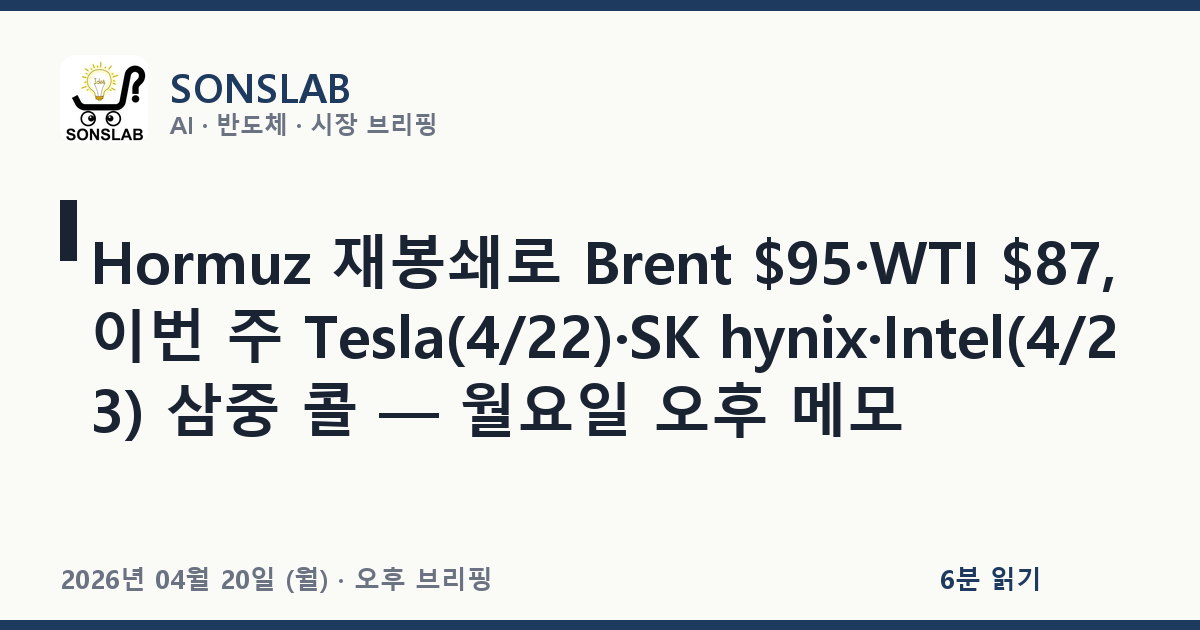
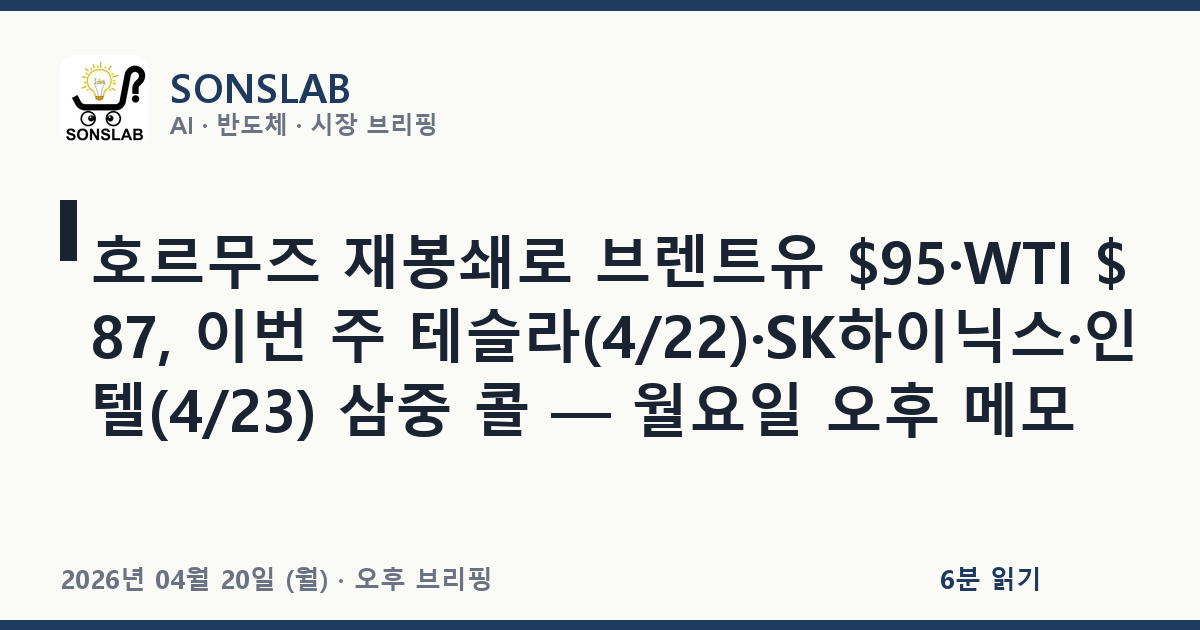
Update: 2026-04-20 18:42

Changed region(s): [[0.0617, 0.3619, 0.9558, 0.6937], [0.8017, 0.6032, 0.8942, 0.6937]]

diff --git a/posts/2026-04-20-pm17-ai-tech-news.html b/posts/2026-04-20-pm17-ai-tech-news.html
@@ -3,7 +3,7 @@
 <head>
     <meta charset="UTF-8">
     <meta name="viewport" content="width=device-width, initial-scale=1.0">
-    <title>Hormuz 재봉쇄로 Brent $95·WTI $87, 이번 주 Tesla(4/22)·SK hynix·Intel(4/23) 삼중 콜 — 월요일 오후 메모 — SONSLAB</title>
+    <title>호르무즈 재봉쇄로 브렌트유 $95·WTI $87, 이번 주 테슬라(4/22)·SK하이닉스·인텔(4/23) 삼중 콜 — 월요일 오후 메모 — SONSLAB</title>
     <link rel="icon" href="../assets/logo.jpg">
     <link rel="alternate" type="application/atom+xml" title="SONSLAB Feed" href="../feed.xml">
     <link rel="preconnect" href="https://fonts.googleapis.com">
@@ -16,13 +16,13 @@
     <link rel="canonical" href="https://shonsubong.github.io/sonslab-blog/posts/2026-04-20-pm17-ai-tech-news.html">
     <meta property="og:site_name" content="SONSLAB">
     <meta property="og:type" content="article">
-    <meta property="og:title" content="Hormuz 재봉쇄로 Brent $95·WTI $87, 이번 주 Tesla(4/22)·SK hynix·Intel(4/23) 삼중 콜 — 월요일 오후 메모">
+    <meta property="og:title" content="호르무즈 재봉쇄로 브렌트유 $95·WTI $87, 이번 주 테슬라(4/22)·SK하이닉스·인텔(4/23) 삼중 콜 — 월요일 오후 메모">
     <meta property="og:description" content="퇴근 준비하면서 화면 한 번 정리한다. 오늘 점심에 쓴 건 SK hynix HBM4 샤핑 조정·Samsung 1c DRAM 수율 서사였고, 새벽에는 Sandisk Nasdaq-100 편입이랑 Tesla 수요일 콜의 Terafab 각도를 짚어뒀다. 오후 들어서 판이 다시 한 번 변수 하나 집어삼켰다 — Hormuz 재봉쇄가 풀릴 듯 다시 조여들면서 유가가 올라왔고, 아시아장 내내 이 변수가 깔...">
     <meta property="og:url" content="https://shonsubong.github.io/sonslab-blog/posts/2026-04-20-pm17-ai-tech-news.html">
     <meta property="og:image" content="https://shonsubong.github.io/sonslab-blog/assets/og/2026-04-20-pm17-ai-tech-news.png">
     <meta property="og:locale" content="ko_KR">
     <meta name="twitter:card" content="summary_large_image">
-    <meta name="twitter:title" content="Hormuz 재봉쇄로 Brent $95·WTI $87, 이번 주 Tesla(4/22)·SK hynix·Intel(4/23) 삼중 콜 — 월요일 오후 메모">
+    <meta name="twitter:title" content="호르무즈 재봉쇄로 브렌트유 $95·WTI $87, 이번 주 테슬라(4/22)·SK하이닉스·인텔(4/23) 삼중 콜 — 월요일 오후 메모">
     <meta name="twitter:description" content="퇴근 준비하면서 화면 한 번 정리한다. 오늘 점심에 쓴 건 SK hynix HBM4 샤핑 조정·Samsung 1c DRAM 수율 서사였고, 새벽에는 Sandisk Nasdaq-100 편입이랑 Tesla 수요일 콜의 Terafab 각도를 짚어뒀다. 오후 들어서 판이 다시 한 번 변수 하나 집어삼켰다 — Hormuz 재봉쇄가 풀릴 듯 다시 조여들면서 유가가 올라왔고, 아시아장 내내 이 변수가 깔...">
     <meta name="twitter:image" content="https://shonsubong.github.io/sonslab-blog/assets/og/2026-04-20-pm17-ai-tech-news.png">
     <meta property="article:published_time" content="2026-04-20T17:16:00+09:00">
@@ -56,8 +56,8 @@
     } catch (e) {}
 })();
 </script>
-    <script type="application/ld+json">{"@context": "https://schema.org", "@type": "BlogPosting", "headline": "Hormuz 재봉쇄로 Brent $95·WTI $87, 이번 주 Tesla(4/22)·SK hynix·Intel(4/23) 삼중 콜 — 월요일 오후 메모", "description": "퇴근 준비하면서 화면 한 번 정리한다. 오늘 점심에 쓴 건 SK hynix HBM4 샤핑 조정·Samsung 1c DRAM 수율 서사였고, 새벽에는 Sandisk Nasdaq-100 편입이랑 Tesla 수요일 콜의 Terafab 각도를 짚어뒀다. 오후 들어서 판이 다시 한 번 변수 하나 집어삼켰다 — Hormuz 재봉쇄가 풀릴 듯 다시 조여들면서 유가가 올라왔고, 아시아장 내내 이 변수가 깔...", "url": "https://shonsubong.github.io/sonslab-blog/posts/2026-04-20-pm17-ai-tech-news.html", "mainEntityOfPage": "https://shonsubong.github.io/sonslab-blog/posts/2026-04-20-pm17-ai-tech-news.html", "inLanguage": "ko", "image": "https://shonsubong.github.io/sonslab-blog/assets/og/2026-04-20-pm17-ai-tech-news.png", "author": {"@type": "Person", "name": "SONSLAB"}, "publisher": {"@type": "Organization", "name": "SONSLAB", "logo": {"@type": "ImageObject", "url": "https://shonsubong.github.io/sonslab-blog/assets/logo.jpg"}}, "datePublished": "2026-04-20T17:16:00+09:00", "dateModified": "2026-04-20T17:16:00+09:00"}</script>
-    <script type="application/ld+json">{"@context": "https://schema.org", "@type": "BreadcrumbList", "itemListElement": [{"@type": "ListItem", "position": 1, "name": "SONSLAB", "item": "https://shonsubong.github.io/sonslab-blog/"}, {"@type": "ListItem", "position": 2, "name": "글", "item": "https://shonsubong.github.io/sonslab-blog/#posts"}, {"@type": "ListItem", "position": 3, "name": "Hormuz 재봉쇄로 Brent $95·WTI $87, 이번 주 Tesla(4/22)·SK hynix·Intel(4/23) 삼중 콜 — 월요일 오후 메모", "item": "https://shonsubong.github.io/sonslab-blog/posts/2026-04-20-pm17-ai-tech-news.html"}]}</script>
+    <script type="application/ld+json">{"@context": "https://schema.org", "@type": "BlogPosting", "headline": "호르무즈 재봉쇄로 브렌트유 $95·WTI $87, 이번 주 테슬라(4/22)·SK하이닉스·인텔(4/23) 삼중 콜 — 월요일 오후 메모", "description": "퇴근 준비하면서 화면 한 번 정리한다. 오늘 점심에 쓴 건 SK hynix HBM4 샤핑 조정·Samsung 1c DRAM 수율 서사였고, 새벽에는 Sandisk Nasdaq-100 편입이랑 Tesla 수요일 콜의 Terafab 각도를 짚어뒀다. 오후 들어서 판이 다시 한 번 변수 하나 집어삼켰다 — Hormuz 재봉쇄가 풀릴 듯 다시 조여들면서 유가가 올라왔고, 아시아장 내내 이 변수가 깔...", "url": "https://shonsubong.github.io/sonslab-blog/posts/2026-04-20-pm17-ai-tech-news.html", "mainEntityOfPage": "https://shonsubong.github.io/sonslab-blog/posts/2026-04-20-pm17-ai-tech-news.html", "inLanguage": "ko", "image": "https://shonsubong.github.io/sonslab-blog/assets/og/2026-04-20-pm17-ai-tech-news.png", "author": {"@type": "Person", "name": "SONSLAB"}, "publisher": {"@type": "Organization", "name": "SONSLAB", "logo": {"@type": "ImageObject", "url": "https://shonsubong.github.io/sonslab-blog/assets/logo.jpg"}}, "datePublished": "2026-04-20T17:16:00+09:00", "dateModified": "2026-04-20T17:16:00+09:00"}</script>
+    <script type="application/ld+json">{"@context": "https://schema.org", "@type": "BreadcrumbList", "itemListElement": [{"@type": "ListItem", "position": 1, "name": "SONSLAB", "item": "https://shonsubong.github.io/sonslab-blog/"}, {"@type": "ListItem", "position": 2, "name": "글", "item": "https://shonsubong.github.io/sonslab-blog/#posts"}, {"@type": "ListItem", "position": 3, "name": "호르무즈 재봉쇄로 브렌트유 $95·WTI $87, 이번 주 테슬라(4/22)·SK하이닉스·인텔(4/23) 삼중 콜 — 월요일 오후 메모", "item": "https://shonsubong.github.io/sonslab-blog/posts/2026-04-20-pm17-ai-tech-news.html"}]}</script>
 </head>
 <body class="post-page">
     <div class="reading-progress" id="reading-progress" role="progressbar" aria-label="읽기 진행률"></div>
@@ -101,7 +101,7 @@
 <article class="post-article">
     <div class="post-header">
         <a href="../index.html" class="back-link">← 전체 글 목록</a>
-        <h1>Hormuz 재봉쇄로 Brent $95·WTI $87, 이번 주 Tesla(4/22)·SK hynix·Intel(4/23) 삼중 콜 — 월요일 오후 메모</h1>
+        <h1>호르무즈 재봉쇄로 브렌트유 $95·WTI $87, 이번 주 테슬라(4/22)·SK하이닉스·인텔(4/23) 삼중 콜 — 월요일 오후 메모</h1>
         <div class="post-meta">
             <span class="time-label">오후 브리핑</span>
             <span>2026년 04월 20일 (월) · 17:16</span>
@@ -117,7 +117,7 @@
     <details class="post-toc" open><summary>목차</summary><div class="toc">
 <div class="toc">
 <ul>
-<li><a href="#hormuz-brent-95wti-87-tesla422sk-hynixintel423">Hormuz 재봉쇄로 Brent $95·WTI $87, 이번 주 Tesla(4/22)·SK hynix·Intel(4/23) 삼중 콜 — 월요일 오후 메모</a><ul>
+<li><a href="#95wti-87-422sk423">호르무즈 재봉쇄로 브렌트유 $95·WTI $87, 이번 주 테슬라(4/22)·SK하이닉스·인텔(4/23) 삼중 콜 — 월요일 오후 메모</a><ul>
 <li><a href="#brent-95">Brent $95 재진입 — 메모리 사이클 위에 원유 사이클이 한 겹 더</a></li>
 <li><a href="#tesla-sk-hynix-intel">이번 주는 삼중 실적 주간 — Tesla(수) / SK hynix(목) / Intel(목)</a></li>
 <li><a href="#_1">마무리</a></li>
@@ -129,7 +129,7 @@
 </div>
 </details>
     <div class="post-content">
-<h1 id="hormuz-brent-95wti-87-tesla422sk-hynixintel423">Hormuz 재봉쇄로 Brent $95·WTI $87, 이번 주 Tesla(4/22)·SK hynix·Intel(4/23) 삼중 콜 — 월요일 오후 메모</h1>
+<h1 id="95wti-87-422sk423">호르무즈 재봉쇄로 브렌트유 $95·WTI $87, 이번 주 테슬라(4/22)·SK하이닉스·인텔(4/23) 삼중 콜 — 월요일 오후 메모</h1>
 <p>퇴근 준비하면서 화면 한 번 정리한다. 오늘 점심에 쓴 건 SK hynix HBM4 샤핑 조정·Samsung 1c DRAM 수율 서사였고, 새벽에는 Sandisk Nasdaq-100 편입이랑 Tesla 수요일 콜의 Terafab 각도를 짚어뒀다. 오후 들어서 판이 다시 한 번 변수 하나 집어삼켰다 — <strong>Hormuz 재봉쇄</strong>가 풀릴 듯 다시 조여들면서 유가가 올라왔고, 아시아장 내내 이 변수가 깔려 있었다.</p>
 <h2 id="brent-95">Brent $95 재진입 — 메모리 사이클 위에 원유 사이클이 한 겹 더</h2>
 <p><a href="https://www.cnn.com/2026/04/19/business/oil-prices-iran-war">CNN Business 4/19 정리</a>랑 <a href="https://www.wsls.com/business/2026/04/20/oil-prices-and-stocks-climb-as-the-us-iran-standoff-keeps-the-strait-of-hormuz-in-limbo/">WSLS/AP 4/20 전송</a> 기준, WTI $87.20 (+5.6%)·Brent $95.16 (+5.3%) 레벨까지 올라왔다. 지난주 초 이란이 Hormuz 개방을 선언하면서 11% 빠졌던 게 기저에 깔려 있어서 체감 낙폭 반전이 더 크다. <a href="https://www.euronews.com/business/2026/04/20/oil-prices-climb-as-us-iran-stand-off-keeps-strait-of-hormuz-in-limbo">Euronews</a>도 같은 톤. 이란-미국 2주 휴전 만료가 수요일로 걸려 있고, <a href="https://en.sedaily.com/finance/2026/04/20/hormuz-reblockade-rattles-markets-sk-hynix-earnings-in-focus">Seoul Economic Daily</a>는 "Hormuz 재봉쇄가 아시아장을 흔들었다"로 요약했다.</p>
@@ -150,7 +150,7 @@
     
 <div class="post-share">
     <span class="share-label">공유하기</span>
-    <a href="https://twitter.com/intent/tweet?text=Hormuz 재봉쇄로 Brent $95·WTI $87, 이번 주 Tesla(4/22)·SK hynix·Intel(4/23) 삼중 콜 — 월요일 오후 메모&url=https://shonsubong.github.io/sonslab-blog/posts/2026-04-20-pm17-ai-tech-news.html"
+    <a href="https://twitter.com/intent/tweet?text=호르무즈 재봉쇄로 브렌트유 $95·WTI $87, 이번 주 테슬라(4/22)·SK하이닉스·인텔(4/23) 삼중 콜 — 월요일 오후 메모&url=https://shonsubong.github.io/sonslab-blog/posts/2026-04-20-pm17-ai-tech-news.html"
        class="share-btn" target="_blank" rel="noopener" aria-label="X(Twitter)에 공유">
         <span>X</span>
     </a>

diff --git a/index.html b/index.html
@@ -168,7 +168,7 @@
                 <tr class="live">
                     <td class="td-time">17:16</td>
                     <td class="td-kind">오후 브리핑</td>
-                    <td class="td-title"><a href="posts/2026-04-20-pm17-ai-tech-news.html">Hormuz 재봉쇄로 Brent $95·WTI $87, 이번 주 Tesla(4/22)·SK hynix·Intel(4/23) 삼중 콜 — 월요일 오후 메모</a></td>
+                    <td class="td-title"><a href="posts/2026-04-20-pm17-ai-tech-news.html">호르무즈 재봉쇄로 브렌트유 $95·WTI $87, 이번 주 테슬라(4/22)·SK하이닉스·인텔(4/23) 삼중 콜 — 월요일 오후 메모</a></td>
                     <td class="td-read">6분</td>
                 </tr>
                 <tr class="up">
@@ -185,14 +185,14 @@
             
         <article class="hero-lede" data-only="editorial">
             <div class="lede-kind">오후 브리핑 — Morning Brief</div>
-            <h1 class="lede-title"><a href="posts/2026-04-20-pm17-ai-tech-news.html">Hormuz 재봉쇄로 Brent $95·WTI $87, 이번 주 Tesla(4/22)·SK hynix·Intel(4/23) 삼중 콜</a></h1>
+            <h1 class="lede-title"><a href="posts/2026-04-20-pm17-ai-tech-news.html">호르무즈 재봉쇄로 브렌트유 $95·WTI $87, 이번 주 테슬라(4/22)·SK하이닉스·인텔(4/23) 삼중 콜</a></h1>
             <div class="lede-dek">월요일 오후 메모</div>
             <p class="lede-body">퇴근 준비하면서 화면 한 번 정리한다. 오늘 점심에 쓴 건 SK hynix HBM4 샤핑 조정·Samsung 1c DRAM 수율 서사였고, 새벽에는 Sandisk Nasdaq-100 편입이랑 Tesla 수요일 콜의 Terafab 각도를 짚어뒀다. 오후 들어서 판이 다시 한 번 변수 하나 집어삼켰다 — Hormuz 재봉쇄가 풀릴 듯 다시 조여들면서 유가가 올라왔고, 아시아장 내내 이 변수가 깔...</p>
             <div class="lede-byline">
                 <span class="lede-reporter">By SONSLAB</span>
                 <span class="lede-sep">—</span>
                 <span>6분 읽기</span>
-                <span class="lede-sep">—</span><span class="lede-topics">반도체, 빅테크/시장, AI 모델</span>
+                <span class="lede-sep">—</span><span class="lede-topics">반도체, 빅테크/시장, 투자/매크로</span>
             </div>
             <a href="posts/2026-04-20-pm17-ai-tech-news.html" class="lede-more">Continue reading →</a>
         </article>
@@ -234,7 +234,7 @@
                 <div class="side-hour">17</div>
                 <div class="side-body">
                     <div class="side-kind">오후</div>
-                    <div class="side-title"><a href="posts/2026-04-20-pm17-ai-tech-news.html">Hormuz 재봉쇄로 Brent $95·WTI $87, 이번 주 Tesla(4/22)·SK hynix·Intel(4/23) 삼중 콜 — 월요일 오후 메모</a></div>
+                    <div class="side-title"><a href="posts/2026-04-20-pm17-ai-tech-news.html">호르무즈 재봉쇄로 브렌트유 $95·WTI $87, 이번 주 테슬라(4/22)·SK하이닉스·인텔(4/23) 삼중 콜 — 월요일 오후 메모</a></div>
                 </div>
             </div>
             <div class="side-today-row dim">
@@ -277,7 +277,7 @@
             
             <article class="c-lead">
                 <div class="c-lead-kind">LEAD · 오후 브리핑</div>
-                <h1 class="c-lead-title"><a href="posts/2026-04-20-pm17-ai-tech-news.html">Hormuz 재봉쇄로 Brent $95·WTI $87, 이번 주 Tesla(4/22)·SK hynix·Intel(4/23) 삼중 콜</a></h1>
+                <h1 class="c-lead-title"><a href="posts/2026-04-20-pm17-ai-tech-news.html">호르무즈 재봉쇄로 브렌트유 $95·WTI $87, 이번 주 테슬라(4/22)·SK하이닉스·인텔(4/23) 삼중 콜</a></h1>
                 <div class="c-lead-dek">월요일 오후 메모</div>
                 <p class="c-lead-body"><span class="dropcap">퇴</span>근 준비하면서 화면 한 번 정리한다. 오늘 점심에 쓴 건 SK hynix HBM4 샤핑 조정·Samsung 1c DRAM 수율 서사였고, 새벽에는 Sandisk Nasdaq-100 편입이랑 Tesla 수요일 콜의 Terafab 각도를 짚어뒀다. 오후 들어서 판이 다시 한 번 변수 하나 집어삼켰다 — Hormuz 재봉쇄가 풀릴 듯 다시 조여들면서 유가가 올라왔고, 아시아장 내내 이 변수가 깔...</p>
                 <div class="c-lead-meta">
@@ -316,7 +316,7 @@
                     <div class="sched-kind">오후 브리핑</div>
                 </div>
                 <div class="sched-body">
-                    <div class="sched-title"><a href="posts/2026-04-20-pm17-ai-tech-news.html">Hormuz 재봉쇄로 Brent $95·WTI $87, 이번 주 Tesla(4/22)·SK hynix·Intel(4/23) 삼중 콜 — 월요일 오후 메모</a></div>
+                    <div class="sched-title"><a href="posts/2026-04-20-pm17-ai-tech-news.html">호르무즈 재봉쇄로 브렌트유 $95·WTI $87, 이번 주 테슬라(4/22)·SK하이닉스·인텔(4/23) 삼중 콜 — 월요일 오후 메모</a></div>
                     <div class="sched-status">● 발행됨 · 6분</div>
                 </div>
             </div>
@@ -388,7 +388,7 @@
 
 <div class="filter-bar" role="search" aria-label="포스트 검색 및 필터">
     <div class="filter-bar-inner">
-        <div class="tag-chips" id="topic-chips" role="tablist" aria-label="주제 필터"><button type="button" class="chip active" data-topic="">전체 <span class="chip-count">51</span></button><button type="button" class="chip" data-topic="반도체">반도체 <span class="chip-count">45</span></button><button type="button" class="chip" data-topic="AI 모델">AI 모델 <span class="chip-count">38</span></button><button type="button" class="chip" data-topic="빅테크/시장">빅테크 / 시장 <span class="chip-count">42</span></button><button type="button" class="chip" data-topic="투자/매크로">투자 / 매크로 <span class="chip-count">9</span></button><button type="button" class="chip" data-topic="정책/규제">정책 / 규제 <span class="chip-count">4</span></button><button type="button" class="chip" data-topic="현장/개발">현장 / 개발 <span class="chip-count">12</span></button></div>
+        <div class="tag-chips" id="topic-chips" role="tablist" aria-label="주제 필터"><button type="button" class="chip active" data-topic="">전체 <span class="chip-count">51</span></button><button type="button" class="chip" data-topic="반도체">반도체 <span class="chip-count">45</span></button><button type="button" class="chip" data-topic="AI 모델">AI 모델 <span class="chip-count">37</span></button><button type="button" class="chip" data-topic="빅테크/시장">빅테크 / 시장 <span class="chip-count">42</span></button><button type="button" class="chip" data-topic="투자/매크로">투자 / 매크로 <span class="chip-count">10</span></button><button type="button" class="chip" data-topic="정책/규제">정책 / 규제 <span class="chip-count">4</span></button><button type="button" class="chip" data-topic="현장/개발">현장 / 개발 <span class="chip-count">12</span></button></div>
         <div class="search-box">
             <input type="search" id="search-input" placeholder="검색…" autocomplete="off" aria-label="포스트 검색">
         </div>
@@ -409,14 +409,14 @@
             <div class="date-group-title">2026년 04월 20일 (월)</div>
             <div class="date-group-posts">
 
-        <article class="post-item" data-time="오후 브리핑" data-topics="반도체|빅테크/시장|AI 모델" data-search="hormuz 재봉쇄로 brent $95·wti $87, 이번 주 tesla(4/22)·sk hynix·intel(4/23) 삼중 콜 — 월요일 오후 메모 퇴근 준비하면서 화면 한 번 정리한다. 오늘 점심에 쓴 건 sk hynix hbm4 샤핑 조정·samsung 1c dram 수율 서사였고, 새벽에는 sandisk nasdaq-100 편입이랑 tesla 수요일 콜의 terafab 각도를 짚어뒀다. 오후 들어서 판이 다시 한 번 변수 하나 집어삼켰다 — hormuz 재봉쇄가 풀릴 듯 다시 조여들면서 유가가 올라왔고, 아시아장 내내 이 변수가 깔... 반도체 빅테크/시장 ai 모델">
+        <article class="post-item" data-time="오후 브리핑" data-topics="반도체|빅테크/시장|투자/매크로" data-search="호르무즈 재봉쇄로 브렌트유 $95·wti $87, 이번 주 테슬라(4/22)·sk하이닉스·인텔(4/23) 삼중 콜 — 월요일 오후 메모 퇴근 준비하면서 화면 한 번 정리한다. 오늘 점심에 쓴 건 sk hynix hbm4 샤핑 조정·samsung 1c dram 수율 서사였고, 새벽에는 sandisk nasdaq-100 편입이랑 tesla 수요일 콜의 terafab 각도를 짚어뒀다. 오후 들어서 판이 다시 한 번 변수 하나 집어삼켰다 — hormuz 재봉쇄가 풀릴 듯 다시 조여들면서 유가가 올라왔고, 아시아장 내내 이 변수가 깔... 반도체 빅테크/시장 투자/매크로">
             <div class="post-meta">
                 <span class="time-label">오후 브리핑</span>
                 <span>·</span>
                 <time>17:16</time><span>·</span>
                 <span>6분 읽기</span>
             </div>
-            <h2><a href="posts/2026-04-20-pm17-ai-tech-news.html">Hormuz 재봉쇄로 Brent $95·WTI $87, 이번 주 Tesla(4/22)·SK hynix·Intel(4/23) 삼중 콜 — 월요일 오후 메모</a></h2>
+            <h2><a href="posts/2026-04-20-pm17-ai-tech-news.html">호르무즈 재봉쇄로 브렌트유 $95·WTI $87, 이번 주 테슬라(4/22)·SK하이닉스·인텔(4/23) 삼중 콜 — 월요일 오후 메모</a></h2>
             <p class="lead">퇴근 준비하면서 화면 한 번 정리한다. 오늘 점심에 쓴 건 SK hynix HBM4 샤핑 조정·Samsung 1c DRAM 수율 서사였고, 새벽에는 Sandisk Nasdaq-100 편입이랑 Tesla 수요일 콜의 Terafab 각도를 짚어뒀다. 오후 들어서 판이 다시 한 번 변수 하나 집어삼켰다 — Hormuz 재봉쇄가 풀릴 듯 다시 조여들면서 유가가 올라왔고, 아시아장 내내 이 변수가 깔...</p>
             <a href="posts/2026-04-20-pm17-ai-tech-news.html" class="read-more">계속 읽기 →</a>
         </article>

diff --git a/posts/2026-04-20-pm12-ai-tech-news.html b/posts/2026-04-20-pm12-ai-tech-news.html
@@ -138,8 +138,8 @@
 </ol>
 <p>모든 "~한다더라" 숫자는 아직 공식 IR 발표가 아니고 리포트·업계 소스 기반이니 확정은 아니다. 다만 이번 주 수요일(4/23) SK하이닉스 1분기 실적 콜이 잡혀 있어서 — <a href="https://finance.yahoo.com/quote/000660.KS/">Yahoo Finance 기록</a> 기준 — 적어도 설비투자 톤이랑 HBM 가이던스 문장에서 이 이야기의 실제 각도가 얼마나 드러나는지 짚어볼 수 있다. 엔비디아 쪽은 <a href="https://www.tomshardware.com/tech-industry/hbm4-mass-production-delayed-as-nvidia-pushes-memory-specs-higher">Tom's Hardware 정리</a>에서 이미 "Rubin 연기 주장은 사실이 아니다"라고 공개적으로 반박 중이라, 같은 사실을 놓고 공급망 A/B 사이드 진술이 정반대로 갈리는 진풍경이 벌어지고 있다.</p>
 <p>반도체 쪽에서 일하는 입장에서 이 판은 한 줄로 요약하면 <strong>"HBM base die respin이라는 단어가 2026년 메모리 판을 흔들고 있다"</strong>. base die가 한 번 꼬이면 TSV·로직 다이·스택 본딩·테스트까지 전 공정이 다시 걸리고, 그 과정의 결함이 TEM/SEM 레벨에서 결국 다시 돌아온다. Rubin 쪽 스펙 변경이 "더 높은 대역폭 + 더 큰 스택" 방향이라면 base die의 기계적·열적 마진이 바뀌니까 공급사 입장에선 리스핀이 불가피했을 가능성이 크다. 이게 "SK하이닉스 실수"로 단순화되는 건 현장 감각하고는 좀 결이 다르다는 생각이다.</p>
-<p>중간에 한 겹 더 있는 변수는 <a href="https://winbuzzer.com/2026/04/17/openai-samsung-hbm-pact-signals-new-ai-memory-arms-race-xcxwbn/">OpenAI</a>다. 4/17 자 보도 기준 OpenAI가 삼성과 전용 HBM4 라인을 확보하는 움직임이 나왔고, 이건 작년 10월의 <a href="https://techcrunch.com/2025/10/01/openai-ropes-in-samsung-sk-hynix-to-source-memory-chips-for-stargate/">SK하이닉스 + 삼성 듀얼 소싱</a>의 연장선이다. 삼성 입장에선 "엔비디아 Rubin 리드 복귀 + OpenAI Stargate 전용 라인" 두 축이 동시에 열리는 구간이라, 수율 80% 프로젝트가 걸린 무게가 커졌다. 반대로 SK하이닉스는 대(對) 엔비디아 물량이 단기적으로 빠진다 해도 OpenAI / AMD / Oracle 쪽 수요가 절대량으로는 여전히 꽉 차 있는 구도라, "역전"이라는 표현은 Rubin 공급 리더 포지션에 한정해서 봐야 공정하다.</p>
-<p><strong>투자자 관점에서 한 줄 정리</strong>하면, 지금 KOSPI 안에서 벌어지고 있는 건 "삼성이 HBM4에서 턴어라운드 서사의 실체를 얼마나 만들어내는가"를 시장이 다시 프라이싱하고 있는 국면이다. SK하이닉스 주가가 지난주 금요일 종가 <a href="https://finance.yahoo.com/quote/000660.KS/">1,155,000원</a>에서 4/19 기준 1,128,000원대로 살짝 조정받은 것도, Rubin 비중 축소 이슈가 짧게 반영된 그림으로 본다. 4/23 어닝에서 HBM 믹스 가이던스가 어떻게 나오는지가 단기 결정 포인트.</p>
+<p>중간에 한 겹 더 있는 변수는 <a href="https://winbuzzer.com/2026/04/17/openai-samsung-hbm-pact-signals-new-ai-memory-arms-race-xcxwbn/">OpenAI</a>다. 4/17 자 보도 기준 OpenAI가 삼성과 전용 HBM4 라인을 확보하는 움직임이 나왔고, 이건 작년 10월의 <a href="https://techcrunch.com/2025/10/01/openai-ropes-in-samsung-sk-hynix-to-source-memory-chips-for-stargate/">SK하이닉스 + 삼성 이중 조달</a>의 연장선이다. 삼성 입장에선 "엔비디아 Rubin 리드 복귀 + OpenAI Stargate 전용 라인" 두 축이 동시에 열리는 구간이라, 수율 80% 프로젝트가 걸린 무게가 커졌다. 반대로 SK하이닉스는 대(對) 엔비디아 물량이 단기적으로 빠진다 해도 OpenAI / AMD / Oracle 쪽 수요가 절대량으로는 여전히 꽉 차 있는 구도라, "역전"이라는 표현은 Rubin 공급 리더 포지션에 한정해서 봐야 공정하다.</p>
+<p><strong>투자자 관점에서 한 줄 정리</strong>하면, 지금 KOSPI 안에서 벌어지고 있는 건 "삼성이 HBM4에서 턴어라운드 서사의 실체를 얼마나 만들어내는가"를 시장이 다시 프라이싱하고 있는 국면이다. SK하이닉스 주가가 지난주 금요일 종가 <a href="https://finance.yahoo.com/quote/000660.KS/">1,155,000원</a>에서 4/19 기준 1,128,000원대로 살짝 조정받은 것도, Rubin 비중 축소 이슈가 짧게 반영된 그림으로 본다. 4/23 실적에서 HBM 믹스 가이던스가 어떻게 나오는지가 단기 결정 포인트.</p>
 <hr />
 <p>점심시간 끝나간다. 오후에 회사에서 해야 할 건 따로 있고, 여기까지가 오늘 점심 메모. 5시쯤 다시 상황 봐서 정리할 생각.</p>
     </div>
@@ -170,7 +170,7 @@
     </a>
     <a href="2026-04-20-pm17-ai-tech-news.html" class="post-nav-link next">
         <span class="post-nav-label">다음 글 →</span>
-        <span class="post-nav-title">Hormuz 재봉쇄로 Brent $95·WTI $87, 이번 주 Tesla(4/22)·SK hynix·Intel(4/23) 삼중 콜 — 월요일 오후 메모</span>
+        <span class="post-nav-title">호르무즈 재봉쇄로 브렌트유 $95·WTI $87, 이번 주 테슬라(4/22)·SK하이닉스·인텔(4/23) 삼중 콜 — 월요일 오후 메모</span>
     </a>
 </nav>
     

diff --git a/posts/COWORK_AUTOBUILD_SETUP.html b/posts/COWORK_AUTOBUILD_SETUP.html
@@ -525,7 +525,7 @@ powershell -NoProfile -ExecutionPolicy Bypass -File &quot;X:\Work_Agent\sonslab-
     
 <section class="related-posts" aria-label="최근 다른 리포트">
     <div class="related-posts-label">최근 다른 리포트</div>
-    <ul class="related-list"><li><a href="2026-04-20-pm17-ai-tech-news.html"><span class="related-title">Hormuz 재봉쇄로 Brent $95·WTI $87, 이번 주 Tesla(4/22)·SK hynix·Intel(4/23) 삼중 콜 — 월요일 오후 메모</span><span class="related-date">2026-04-20 · 오후 브리핑 · 17:16</span></a></li><li><a href="2026-04-20-pm12-ai-tech-news.html"><span class="related-title">SK하이닉스 HBM4 20~30% 감산설, 삼성이 Rubin 리더로 역전 — 월요일 점심 메모</span><span class="related-date">2026-04-20 · 오전 브리핑 · 12:18</span></a></li><li><a href="2026-04-20-am06-ai-tech-news.html"><span class="related-title">샌디스크 나스닥-100 입성(4/20)·1년 +2,700%, 테슬라 Terafab이 콜의 진짜 초점 — 월요일 새벽 메모</span><span class="related-date">2026-04-20 · 새벽 리포트 · 06:12</span></a></li><li><a href="2026-04-19-pm22-ai-tech-news.html"><span class="related-title">Opus 4.7 벤치 정리, 알리바바 자체 칩 1만 개 데이터센터 — 주말 마감 메모</span><span class="related-date">2026-04-19 · 저녁 마감 · 22:18</span></a></li><li><a href="2026-04-19-pm17-ai-tech-news.html"><span class="related-title">테슬라 실적 3일 전 — 로보택시 3개 도시, 옵티머스 3세대 지연 속 전망</span><span class="related-date">2026-04-19 · 오후 브리핑 · 17:14</span></a></li></ul>
+    <ul class="related-list"><li><a href="2026-04-20-pm17-ai-tech-news.html"><span class="related-title">호르무즈 재봉쇄로 브렌트유 $95·WTI $87, 이번 주 테슬라(4/22)·SK하이닉스·인텔(4/23) 삼중 콜 — 월요일 오후 메모</span><span class="related-date">2026-04-20 · 오후 브리핑 · 17:16</span></a></li><li><a href="2026-04-20-pm12-ai-tech-news.html"><span class="related-title">SK하이닉스 HBM4 20~30% 감산설, 삼성이 Rubin 리더로 역전 — 월요일 점심 메모</span><span class="related-date">2026-04-20 · 오전 브리핑 · 12:18</span></a></li><li><a href="2026-04-20-am06-ai-tech-news.html"><span class="related-title">샌디스크 나스닥-100 입성(4/20)·1년 +2,700%, 테슬라 Terafab이 콜의 진짜 초점 — 월요일 새벽 메모</span><span class="related-date">2026-04-20 · 새벽 리포트 · 06:12</span></a></li><li><a href="2026-04-19-pm22-ai-tech-news.html"><span class="related-title">Opus 4.7 벤치 정리, 알리바바 자체 칩 1만 개 데이터센터 — 주말 마감 메모</span><span class="related-date">2026-04-19 · 저녁 마감 · 22:18</span></a></li><li><a href="2026-04-19-pm17-ai-tech-news.html"><span class="related-title">테슬라 실적 3일 전 — 로보택시 3개 도시, 옵티머스 3세대 지연 속 전망</span><span class="related-date">2026-04-19 · 오후 브리핑 · 17:14</span></a></li></ul>
 </section>
 </article>
 

diff --git a/posts/2025-12-01-pm21-ai-tech-news.html b/posts/2025-12-01-pm21-ai-tech-news.html
@@ -198,7 +198,7 @@
     
 <section class="related-posts" aria-label="최근 다른 리포트">
     <div class="related-posts-label">최근 다른 리포트</div>
-    <ul class="related-list"><li><a href="2026-04-20-pm17-ai-tech-news.html"><span class="related-title">Hormuz 재봉쇄로 Brent $95·WTI $87, 이번 주 Tesla(4/22)·SK hynix·Intel(4/23) 삼중 콜 — 월요일 오후 메모</span><span class="related-date">2026-04-20 · 오후 브리핑 · 17:16</span></a></li><li><a href="2026-04-20-pm12-ai-tech-news.html"><span class="related-title">SK하이닉스 HBM4 20~30% 감산설, 삼성이 Rubin 리더로 역전 — 월요일 점심 메모</span><span class="related-date">2026-04-20 · 오전 브리핑 · 12:18</span></a></li><li><a href="2026-04-20-am06-ai-tech-news.html"><span class="related-title">샌디스크 나스닥-100 입성(4/20)·1년 +2,700%, 테슬라 Terafab이 콜의 진짜 초점 — 월요일 새벽 메모</span><span class="related-date">2026-04-20 · 새벽 리포트 · 06:12</span></a></li><li><a href="2026-04-19-pm22-ai-tech-news.html"><span class="related-title">Opus 4.7 벤치 정리, 알리바바 자체 칩 1만 개 데이터센터 — 주말 마감 메모</span><span class="related-date">2026-04-19 · 저녁 마감 · 22:18</span></a></li><li><a href="2026-04-19-pm17-ai-tech-news.html"><span class="related-title">테슬라 실적 3일 전 — 로보택시 3개 도시, 옵티머스 3세대 지연 속 전망</span><span class="related-date">2026-04-19 · 오후 브리핑 · 17:14</span></a></li></ul>
+    <ul class="related-list"><li><a href="2026-04-20-pm17-ai-tech-news.html"><span class="related-title">호르무즈 재봉쇄로 브렌트유 $95·WTI $87, 이번 주 테슬라(4/22)·SK하이닉스·인텔(4/23) 삼중 콜 — 월요일 오후 메모</span><span class="related-date">2026-04-20 · 오후 브리핑 · 17:16</span></a></li><li><a href="2026-04-20-pm12-ai-tech-news.html"><span class="related-title">SK하이닉스 HBM4 20~30% 감산설, 삼성이 Rubin 리더로 역전 — 월요일 점심 메모</span><span class="related-date">2026-04-20 · 오전 브리핑 · 12:18</span></a></li><li><a href="2026-04-20-am06-ai-tech-news.html"><span class="related-title">샌디스크 나스닥-100 입성(4/20)·1년 +2,700%, 테슬라 Terafab이 콜의 진짜 초점 — 월요일 새벽 메모</span><span class="related-date">2026-04-20 · 새벽 리포트 · 06:12</span></a></li><li><a href="2026-04-19-pm22-ai-tech-news.html"><span class="related-title">Opus 4.7 벤치 정리, 알리바바 자체 칩 1만 개 데이터센터 — 주말 마감 메모</span><span class="related-date">2026-04-19 · 저녁 마감 · 22:18</span></a></li><li><a href="2026-04-19-pm17-ai-tech-news.html"><span class="related-title">테슬라 실적 3일 전 — 로보택시 3개 도시, 옵티머스 3세대 지연 속 전망</span><span class="related-date">2026-04-19 · 오후 브리핑 · 17:14</span></a></li></ul>
 </section>
 </article>
 

diff --git a/posts/2025-12-06-pm21-ai-tech-news.html b/posts/2025-12-06-pm21-ai-tech-news.html
@@ -173,7 +173,7 @@
     
 <section class="related-posts" aria-label="최근 다른 리포트">
     <div class="related-posts-label">최근 다른 리포트</div>
-    <ul class="related-list"><li><a href="2026-04-20-pm17-ai-tech-news.html"><span class="related-title">Hormuz 재봉쇄로 Brent $95·WTI $87, 이번 주 Tesla(4/22)·SK hynix·Intel(4/23) 삼중 콜 — 월요일 오후 메모</span><span class="related-date">2026-04-20 · 오후 브리핑 · 17:16</span></a></li><li><a href="2026-04-20-pm12-ai-tech-news.html"><span class="related-title">SK하이닉스 HBM4 20~30% 감산설, 삼성이 Rubin 리더로 역전 — 월요일 점심 메모</span><span class="related-date">2026-04-20 · 오전 브리핑 · 12:18</span></a></li><li><a href="2026-04-20-am06-ai-tech-news.html"><span class="related-title">샌디스크 나스닥-100 입성(4/20)·1년 +2,700%, 테슬라 Terafab이 콜의 진짜 초점 — 월요일 새벽 메모</span><span class="related-date">2026-04-20 · 새벽 리포트 · 06:12</span></a></li><li><a href="2026-04-19-pm22-ai-tech-news.html"><span class="related-title">Opus 4.7 벤치 정리, 알리바바 자체 칩 1만 개 데이터센터 — 주말 마감 메모</span><span class="related-date">2026-04-19 · 저녁 마감 · 22:18</span></a></li><li><a href="2026-04-19-pm17-ai-tech-news.html"><span class="related-title">테슬라 실적 3일 전 — 로보택시 3개 도시, 옵티머스 3세대 지연 속 전망</span><span class="related-date">2026-04-19 · 오후 브리핑 · 17:14</span></a></li></ul>
+    <ul class="related-list"><li><a href="2026-04-20-pm17-ai-tech-news.html"><span class="related-title">호르무즈 재봉쇄로 브렌트유 $95·WTI $87, 이번 주 테슬라(4/22)·SK하이닉스·인텔(4/23) 삼중 콜 — 월요일 오후 메모</span><span class="related-date">2026-04-20 · 오후 브리핑 · 17:16</span></a></li><li><a href="2026-04-20-pm12-ai-tech-news.html"><span class="related-title">SK하이닉스 HBM4 20~30% 감산설, 삼성이 Rubin 리더로 역전 — 월요일 점심 메모</span><span class="related-date">2026-04-20 · 오전 브리핑 · 12:18</span></a></li><li><a href="2026-04-20-am06-ai-tech-news.html"><span class="related-title">샌디스크 나스닥-100 입성(4/20)·1년 +2,700%, 테슬라 Terafab이 콜의 진짜 초점 — 월요일 새벽 메모</span><span class="related-date">2026-04-20 · 새벽 리포트 · 06:12</span></a></li><li><a href="2026-04-19-pm22-ai-tech-news.html"><span class="related-title">Opus 4.7 벤치 정리, 알리바바 자체 칩 1만 개 데이터센터 — 주말 마감 메모</span><span class="related-date">2026-04-19 · 저녁 마감 · 22:18</span></a></li><li><a href="2026-04-19-pm17-ai-tech-news.html"><span class="related-title">테슬라 실적 3일 전 — 로보택시 3개 도시, 옵티머스 3세대 지연 속 전망</span><span class="related-date">2026-04-19 · 오후 브리핑 · 17:14</span></a></li></ul>
 </section>
 </article>
 

diff --git a/posts/2025-12-09-pm22-ai-tech-news.html b/posts/2025-12-09-pm22-ai-tech-news.html
@@ -197,7 +197,7 @@
     
 <section class="related-posts" aria-label="최근 다른 리포트">
     <div class="related-posts-label">최근 다른 리포트</div>
-    <ul class="related-list"><li><a href="2026-04-20-pm17-ai-tech-news.html"><span class="related-title">Hormuz 재봉쇄로 Brent $95·WTI $87, 이번 주 Tesla(4/22)·SK hynix·Intel(4/23) 삼중 콜 — 월요일 오후 메모</span><span class="related-date">2026-04-20 · 오후 브리핑 · 17:16</span></a></li><li><a href="2026-04-20-pm12-ai-tech-news.html"><span class="related-title">SK하이닉스 HBM4 20~30% 감산설, 삼성이 Rubin 리더로 역전 — 월요일 점심 메모</span><span class="related-date">2026-04-20 · 오전 브리핑 · 12:18</span></a></li><li><a href="2026-04-20-am06-ai-tech-news.html"><span class="related-title">샌디스크 나스닥-100 입성(4/20)·1년 +2,700%, 테슬라 Terafab이 콜의 진짜 초점 — 월요일 새벽 메모</span><span class="related-date">2026-04-20 · 새벽 리포트 · 06:12</span></a></li><li><a href="2026-04-19-pm22-ai-tech-news.html"><span class="related-title">Opus 4.7 벤치 정리, 알리바바 자체 칩 1만 개 데이터센터 — 주말 마감 메모</span><span class="related-date">2026-04-19 · 저녁 마감 · 22:18</span></a></li><li><a href="2026-04-19-pm17-ai-tech-news.html"><span class="related-title">테슬라 실적 3일 전 — 로보택시 3개 도시, 옵티머스 3세대 지연 속 전망</span><span class="related-date">2026-04-19 · 오후 브리핑 · 17:14</span></a></li></ul>
+    <ul class="related-list"><li><a href="2026-04-20-pm17-ai-tech-news.html"><span class="related-title">호르무즈 재봉쇄로 브렌트유 $95·WTI $87, 이번 주 테슬라(4/22)·SK하이닉스·인텔(4/23) 삼중 콜 — 월요일 오후 메모</span><span class="related-date">2026-04-20 · 오후 브리핑 · 17:16</span></a></li><li><a href="2026-04-20-pm12-ai-tech-news.html"><span class="related-title">SK하이닉스 HBM4 20~30% 감산설, 삼성이 Rubin 리더로 역전 — 월요일 점심 메모</span><span class="related-date">2026-04-20 · 오전 브리핑 · 12:18</span></a></li><li><a href="2026-04-20-am06-ai-tech-news.html"><span class="related-title">샌디스크 나스닥-100 입성(4/20)·1년 +2,700%, 테슬라 Terafab이 콜의 진짜 초점 — 월요일 새벽 메모</span><span class="related-date">2026-04-20 · 새벽 리포트 · 06:12</span></a></li><li><a href="2026-04-19-pm22-ai-tech-news.html"><span class="related-title">Opus 4.7 벤치 정리, 알리바바 자체 칩 1만 개 데이터센터 — 주말 마감 메모</span><span class="related-date">2026-04-19 · 저녁 마감 · 22:18</span></a></li><li><a href="2026-04-19-pm17-ai-tech-news.html"><span class="related-title">테슬라 실적 3일 전 — 로보택시 3개 도시, 옵티머스 3세대 지연 속 전망</span><span class="related-date">2026-04-19 · 오후 브리핑 · 17:14</span></a></li></ul>
 </section>
 </article>
 

diff --git a/posts/2025-12-13-pm22-ai-tech-news.html b/posts/2025-12-13-pm22-ai-tech-news.html
@@ -228,7 +228,7 @@
     
 <section class="related-posts" aria-label="최근 다른 리포트">
     <div class="related-posts-label">최근 다른 리포트</div>
-    <ul class="related-list"><li><a href="2026-04-20-pm17-ai-tech-news.html"><span class="related-title">Hormuz 재봉쇄로 Brent $95·WTI $87, 이번 주 Tesla(4/22)·SK hynix·Intel(4/23) 삼중 콜 — 월요일 오후 메모</span><span class="related-date">2026-04-20 · 오후 브리핑 · 17:16</span></a></li><li><a href="2026-04-20-pm12-ai-tech-news.html"><span class="related-title">SK하이닉스 HBM4 20~30% 감산설, 삼성이 Rubin 리더로 역전 — 월요일 점심 메모</span><span class="related-date">2026-04-20 · 오전 브리핑 · 12:18</span></a></li><li><a href="2026-04-20-am06-ai-tech-news.html"><span class="related-title">샌디스크 나스닥-100 입성(4/20)·1년 +2,700%, 테슬라 Terafab이 콜의 진짜 초점 — 월요일 새벽 메모</span><span class="related-date">2026-04-20 · 새벽 리포트 · 06:12</span></a></li><li><a href="2026-04-19-pm22-ai-tech-news.html"><span class="related-title">Opus 4.7 벤치 정리, 알리바바 자체 칩 1만 개 데이터센터 — 주말 마감 메모</span><span class="related-date">2026-04-19 · 저녁 마감 · 22:18</span></a></li><li><a href="2026-04-19-pm17-ai-tech-news.html"><span class="related-title">테슬라 실적 3일 전 — 로보택시 3개 도시, 옵티머스 3세대 지연 속 전망</span><span class="related-date">2026-04-19 · 오후 브리핑 · 17:14</span></a></li></ul>
+    <ul class="related-list"><li><a href="2026-04-20-pm17-ai-tech-news.html"><span class="related-title">호르무즈 재봉쇄로 브렌트유 $95·WTI $87, 이번 주 테슬라(4/22)·SK하이닉스·인텔(4/23) 삼중 콜 — 월요일 오후 메모</span><span class="related-date">2026-04-20 · 오후 브리핑 · 17:16</span></a></li><li><a href="2026-04-20-pm12-ai-tech-news.html"><span class="related-title">SK하이닉스 HBM4 20~30% 감산설, 삼성이 Rubin 리더로 역전 — 월요일 점심 메모</span><span class="related-date">2026-04-20 · 오전 브리핑 · 12:18</span></a></li><li><a href="2026-04-20-am06-ai-tech-news.html"><span class="related-title">샌디스크 나스닥-100 입성(4/20)·1년 +2,700%, 테슬라 Terafab이 콜의 진짜 초점 — 월요일 새벽 메모</span><span class="related-date">2026-04-20 · 새벽 리포트 · 06:12</span></a></li><li><a href="2026-04-19-pm22-ai-tech-news.html"><span class="related-title">Opus 4.7 벤치 정리, 알리바바 자체 칩 1만 개 데이터센터 — 주말 마감 메모</span><span class="related-date">2026-04-19 · 저녁 마감 · 22:18</span></a></li><li><a href="2026-04-19-pm17-ai-tech-news.html"><span class="related-title">테슬라 실적 3일 전 — 로보택시 3개 도시, 옵티머스 3세대 지연 속 전망</span><span class="related-date">2026-04-19 · 오후 브리핑 · 17:14</span></a></li></ul>
 </section>
 </article>
 

diff --git a/posts/2025-12-16-pm22-ai-tech-news.html b/posts/2025-12-16-pm22-ai-tech-news.html
@@ -184,7 +184,7 @@
     
 <section class="related-posts" aria-label="최근 다른 리포트">
     <div class="related-posts-label">최근 다른 리포트</div>
-    <ul class="related-list"><li><a href="2026-04-20-pm17-ai-tech-news.html"><span class="related-title">Hormuz 재봉쇄로 Brent $95·WTI $87, 이번 주 Tesla(4/22)·SK hynix·Intel(4/23) 삼중 콜 — 월요일 오후 메모</span><span class="related-date">2026-04-20 · 오후 브리핑 · 17:16</span></a></li><li><a href="2026-04-20-pm12-ai-tech-news.html"><span class="related-title">SK하이닉스 HBM4 20~30% 감산설, 삼성이 Rubin 리더로 역전 — 월요일 점심 메모</span><span class="related-date">2026-04-20 · 오전 브리핑 · 12:18</span></a></li><li><a href="2026-04-20-am06-ai-tech-news.html"><span class="related-title">샌디스크 나스닥-100 입성(4/20)·1년 +2,700%, 테슬라 Terafab이 콜의 진짜 초점 — 월요일 새벽 메모</span><span class="related-date">2026-04-20 · 새벽 리포트 · 06:12</span></a></li><li><a href="2026-04-19-pm22-ai-tech-news.html"><span class="related-title">Opus 4.7 벤치 정리, 알리바바 자체 칩 1만 개 데이터센터 — 주말 마감 메모</span><span class="related-date">2026-04-19 · 저녁 마감 · 22:18</span></a></li><li><a href="2026-04-19-pm17-ai-tech-news.html"><span class="related-title">테슬라 실적 3일 전 — 로보택시 3개 도시, 옵티머스 3세대 지연 속 전망</span><span class="related-date">2026-04-19 · 오후 브리핑 · 17:14</span></a></li></ul>
+    <ul class="related-list"><li><a href="2026-04-20-pm17-ai-tech-news.html"><span class="related-title">호르무즈 재봉쇄로 브렌트유 $95·WTI $87, 이번 주 테슬라(4/22)·SK하이닉스·인텔(4/23) 삼중 콜 — 월요일 오후 메모</span><span class="related-date">2026-04-20 · 오후 브리핑 · 17:16</span></a></li><li><a href="2026-04-20-pm12-ai-tech-news.html"><span class="related-title">SK하이닉스 HBM4 20~30% 감산설, 삼성이 Rubin 리더로 역전 — 월요일 점심 메모</span><span class="related-date">2026-04-20 · 오전 브리핑 · 12:18</span></a></li><li><a href="2026-04-20-am06-ai-tech-news.html"><span class="related-title">샌디스크 나스닥-100 입성(4/20)·1년 +2,700%, 테슬라 Terafab이 콜의 진짜 초점 — 월요일 새벽 메모</span><span class="related-date">2026-04-20 · 새벽 리포트 · 06:12</span></a></li><li><a href="2026-04-19-pm22-ai-tech-news.html"><span class="related-title">Opus 4.7 벤치 정리, 알리바바 자체 칩 1만 개 데이터센터 — 주말 마감 메모</span><span class="related-date">2026-04-19 · 저녁 마감 · 22:18</span></a></li><li><a href="2026-04-19-pm17-ai-tech-news.html"><span class="related-title">테슬라 실적 3일 전 — 로보택시 3개 도시, 옵티머스 3세대 지연 속 전망</span><span class="related-date">2026-04-19 · 오후 브리핑 · 17:14</span></a></li></ul>
 </section>
 </article>
 

diff --git a/posts/2025-12-21-pm22-ai-tech-news.html b/posts/2025-12-21-pm22-ai-tech-news.html
@@ -200,7 +200,7 @@
     
 <section class="related-posts" aria-label="최근 다른 리포트">
     <div class="related-posts-label">최근 다른 리포트</div>
-    <ul class="related-list"><li><a href="2026-04-20-pm17-ai-tech-news.html"><span class="related-title">Hormuz 재봉쇄로 Brent $95·WTI $87, 이번 주 Tesla(4/22)·SK hynix·Intel(4/23) 삼중 콜 — 월요일 오후 메모</span><span class="related-date">2026-04-20 · 오후 브리핑 · 17:16</span></a></li><li><a href="2026-04-20-pm12-ai-tech-news.html"><span class="related-title">SK하이닉스 HBM4 20~30% 감산설, 삼성이 Rubin 리더로 역전 — 월요일 점심 메모</span><span class="related-date">2026-04-20 · 오전 브리핑 · 12:18</span></a></li><li><a href="2026-04-20-am06-ai-tech-news.html"><span class="related-title">샌디스크 나스닥-100 입성(4/20)·1년 +2,700%, 테슬라 Terafab이 콜의 진짜 초점 — 월요일 새벽 메모</span><span class="related-date">2026-04-20 · 새벽 리포트 · 06:12</span></a></li><li><a href="2026-04-19-pm22-ai-tech-news.html"><span class="related-title">Opus 4.7 벤치 정리, 알리바바 자체 칩 1만 개 데이터센터 — 주말 마감 메모</span><span class="related-date">2026-04-19 · 저녁 마감 · 22:18</span></a></li><li><a href="2026-04-19-pm17-ai-tech-news.html"><span class="related-title">테슬라 실적 3일 전 — 로보택시 3개 도시, 옵티머스 3세대 지연 속 전망</span><span class="related-date">2026-04-19 · 오후 브리핑 · 17:14</span></a></li></ul>
+    <ul class="related-list"><li><a href="2026-04-20-pm17-ai-tech-news.html"><span class="related-title">호르무즈 재봉쇄로 브렌트유 $95·WTI $87, 이번 주 테슬라(4/22)·SK하이닉스·인텔(4/23) 삼중 콜 — 월요일 오후 메모</span><span class="related-date">2026-04-20 · 오후 브리핑 · 17:16</span></a></li><li><a href="2026-04-20-pm12-ai-tech-news.html"><span class="related-title">SK하이닉스 HBM4 20~30% 감산설, 삼성이 Rubin 리더로 역전 — 월요일 점심 메모</span><span class="related-date">2026-04-20 · 오전 브리핑 · 12:18</span></a></li><li><a href="2026-04-20-am06-ai-tech-news.html"><span class="related-title">샌디스크 나스닥-100 입성(4/20)·1년 +2,700%, 테슬라 Terafab이 콜의 진짜 초점 — 월요일 새벽 메모</span><span class="related-date">2026-04-20 · 새벽 리포트 · 06:12</span></a></li><li><a href="2026-04-19-pm22-ai-tech-news.html"><span class="related-title">Opus 4.7 벤치 정리, 알리바바 자체 칩 1만 개 데이터센터 — 주말 마감 메모</span><span class="related-date">2026-04-19 · 저녁 마감 · 22:18</span></a></li><li><a href="2026-04-19-pm17-ai-tech-news.html"><span class="related-title">테슬라 실적 3일 전 — 로보택시 3개 도시, 옵티머스 3세대 지연 속 전망</span><span class="related-date">2026-04-19 · 오후 브리핑 · 17:14</span></a></li></ul>
 </section>
 </article>
 

diff --git a/posts/2025-12-23-pm21-ai-tech-news.html b/posts/2025-12-23-pm21-ai-tech-news.html
@@ -192,7 +192,7 @@
     
 <section class="related-posts" aria-label="최근 다른 리포트">
     <div class="related-posts-label">최근 다른 리포트</div>
-    <ul class="related-list"><li><a href="2026-04-20-pm17-ai-tech-news.html"><span class="related-title">Hormuz 재봉쇄로 Brent $95·WTI $87, 이번 주 Tesla(4/22)·SK hynix·Intel(4/23) 삼중 콜 — 월요일 오후 메모</span><span class="related-date">2026-04-20 · 오후 브리핑 · 17:16</span></a></li><li><a href="2026-04-20-pm12-ai-tech-news.html"><span class="related-title">SK하이닉스 HBM4 20~30% 감산설, 삼성이 Rubin 리더로 역전 — 월요일 점심 메모</span><span class="related-date">2026-04-20 · 오전 브리핑 · 12:18</span></a></li><li><a href="2026-04-20-am06-ai-tech-news.html"><span class="related-title">샌디스크 나스닥-100 입성(4/20)·1년 +2,700%, 테슬라 Terafab이 콜의 진짜 초점 — 월요일 새벽 메모</span><span class="related-date">2026-04-20 · 새벽 리포트 · 06:12</span></a></li><li><a href="2026-04-19-pm22-ai-tech-news.html"><span class="related-title">Opus 4.7 벤치 정리, 알리바바 자체 칩 1만 개 데이터센터 — 주말 마감 메모</span><span class="related-date">2026-04-19 · 저녁 마감 · 22:18</span></a></li><li><a href="2026-04-19-pm17-ai-tech-news.html"><span class="related-title">테슬라 실적 3일 전 — 로보택시 3개 도시, 옵티머스 3세대 지연 속 전망</span><span class="related-date">2026-04-19 · 오후 브리핑 · 17:14</span></a></li></ul>
+    <ul class="related-list"><li><a href="2026-04-20-pm17-ai-tech-news.html"><span class="related-title">호르무즈 재봉쇄로 브렌트유 $95·WTI $87, 이번 주 테슬라(4/22)·SK하이닉스·인텔(4/23) 삼중 콜 — 월요일 오후 메모</span><span class="related-date">2026-04-20 · 오후 브리핑 · 17:16</span></a></li><li><a href="2026-04-20-pm12-ai-tech-news.html"><span class="related-title">SK하이닉스 HBM4 20~30% 감산설, 삼성이 Rubin 리더로 역전 — 월요일 점심 메모</span><span class="related-date">2026-04-20 · 오전 브리핑 · 12:18</span></a></li><li><a href="2026-04-20-am06-ai-tech-news.html"><span class="related-title">샌디스크 나스닥-100 입성(4/20)·1년 +2,700%, 테슬라 Terafab이 콜의 진짜 초점 — 월요일 새벽 메모</span><span class="related-date">2026-04-20 · 새벽 리포트 · 06:12</span></a></li><li><a href="2026-04-19-pm22-ai-tech-news.html"><span class="related-title">Opus 4.7 벤치 정리, 알리바바 자체 칩 1만 개 데이터센터 — 주말 마감 메모</span><span class="related-date">2026-04-19 · 저녁 마감 · 22:18</span></a></li><li><a href="2026-04-19-pm17-ai-tech-news.html"><span class="related-title">테슬라 실적 3일 전 — 로보택시 3개 도시, 옵티머스 3세대 지연 속 전망</span><span class="related-date">2026-04-19 · 오후 브리핑 · 17:14</span></a></li></ul>
 </section>
 </article>
 

diff --git a/posts/2025-12-31-pm22-ai-tech-news.html b/posts/2025-12-31-pm22-ai-tech-news.html
@@ -248,7 +248,7 @@
     
 <section class="related-posts" aria-label="최근 다른 리포트">
     <div class="related-posts-label">최근 다른 리포트</div>
-    <ul class="related-list"><li><a href="2026-04-20-pm17-ai-tech-news.html"><span class="related-title">Hormuz 재봉쇄로 Brent $95·WTI $87, 이번 주 Tesla(4/22)·SK hynix·Intel(4/23) 삼중 콜 — 월요일 오후 메모</span><span class="related-date">2026-04-20 · 오후 브리핑 · 17:16</span></a></li><li><a href="2026-04-20-pm12-ai-tech-news.html"><span class="related-title">SK하이닉스 HBM4 20~30% 감산설, 삼성이 Rubin 리더로 역전 — 월요일 점심 메모</span><span class="related-date">2026-04-20 · 오전 브리핑 · 12:18</span></a></li><li><a href="2026-04-20-am06-ai-tech-news.html"><span class="related-title">샌디스크 나스닥-100 입성(4/20)·1년 +2,700%, 테슬라 Terafab이 콜의 진짜 초점 — 월요일 새벽 메모</span><span class="related-date">2026-04-20 · 새벽 리포트 · 06:12</span></a></li><li><a href="2026-04-19-pm22-ai-tech-news.html"><span class="related-title">Opus 4.7 벤치 정리, 알리바바 자체 칩 1만 개 데이터센터 — 주말 마감 메모</span><span class="related-date">2026-04-19 · 저녁 마감 · 22:18</span></a></li><li><a href="2026-04-19-pm17-ai-tech-news.html"><span class="related-title">테슬라 실적 3일 전 — 로보택시 3개 도시, 옵티머스 3세대 지연 속 전망</span><span class="related-date">2026-04-19 · 오후 브리핑 · 17:14</span></a></li></ul>
+    <ul class="related-list"><li><a href="2026-04-20-pm17-ai-tech-news.html"><span class="related-title">호르무즈 재봉쇄로 브렌트유 $95·WTI $87, 이번 주 테슬라(4/22)·SK하이닉스·인텔(4/23) 삼중 콜 — 월요일 오후 메모</span><span class="related-date">2026-04-20 · 오후 브리핑 · 17:16</span></a></li><li><a href="2026-04-20-pm12-ai-tech-news.html"><span class="related-title">SK하이닉스 HBM4 20~30% 감산설, 삼성이 Rubin 리더로 역전 — 월요일 점심 메모</span><span class="related-date">2026-04-20 · 오전 브리핑 · 12:18</span></a></li><li><a href="2026-04-20-am06-ai-tech-news.html"><span class="related-title">샌디스크 나스닥-100 입성(4/20)·1년 +2,700%, 테슬라 Terafab이 콜의 진짜 초점 — 월요일 새벽 메모</span><span class="related-date">2026-04-20 · 새벽 리포트 · 06:12</span></a></li><li><a href="2026-04-19-pm22-ai-tech-news.html"><span class="related-title">Opus 4.7 벤치 정리, 알리바바 자체 칩 1만 개 데이터센터 — 주말 마감 메모</span><span class="related-date">2026-04-19 · 저녁 마감 · 22:18</span></a></li><li><a href="2026-04-19-pm17-ai-tech-news.html"><span class="related-title">테슬라 실적 3일 전 — 로보택시 3개 도시, 옵티머스 3세대 지연 속 전망</span><span class="related-date">2026-04-19 · 오후 브리핑 · 17:14</span></a></li></ul>
 </section>
 </article>
 
